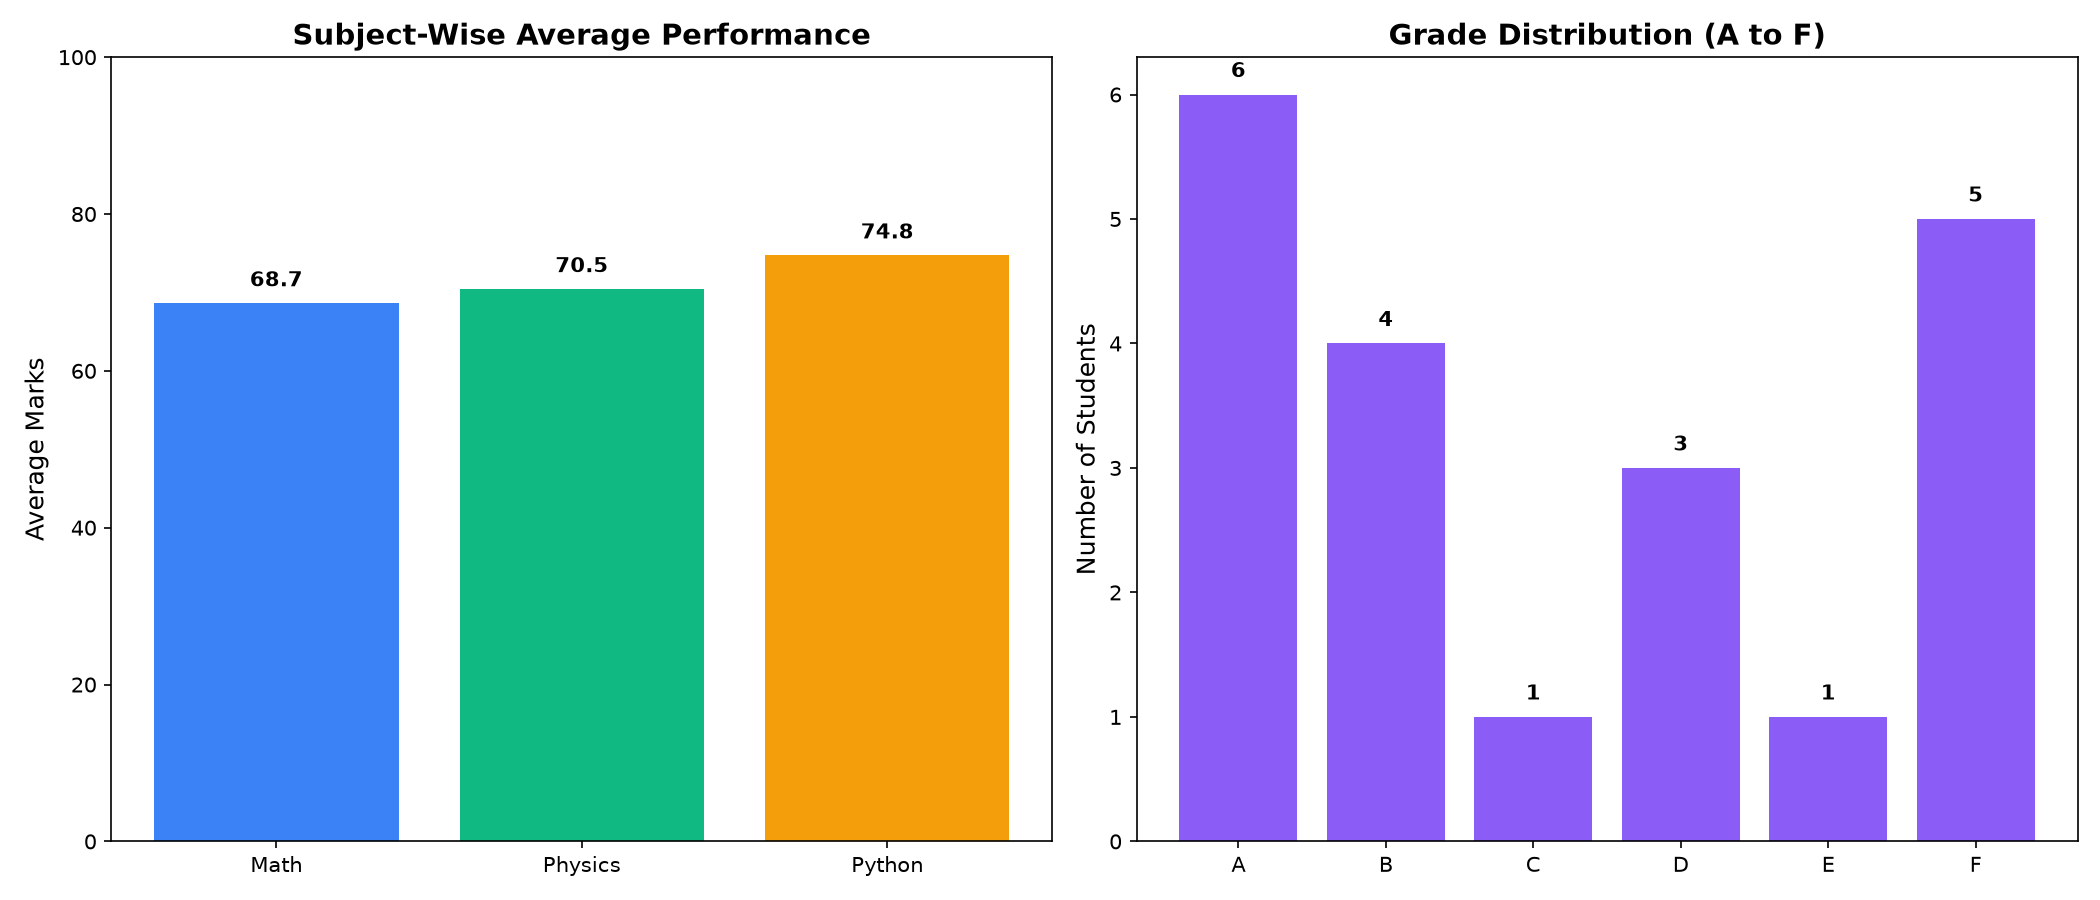
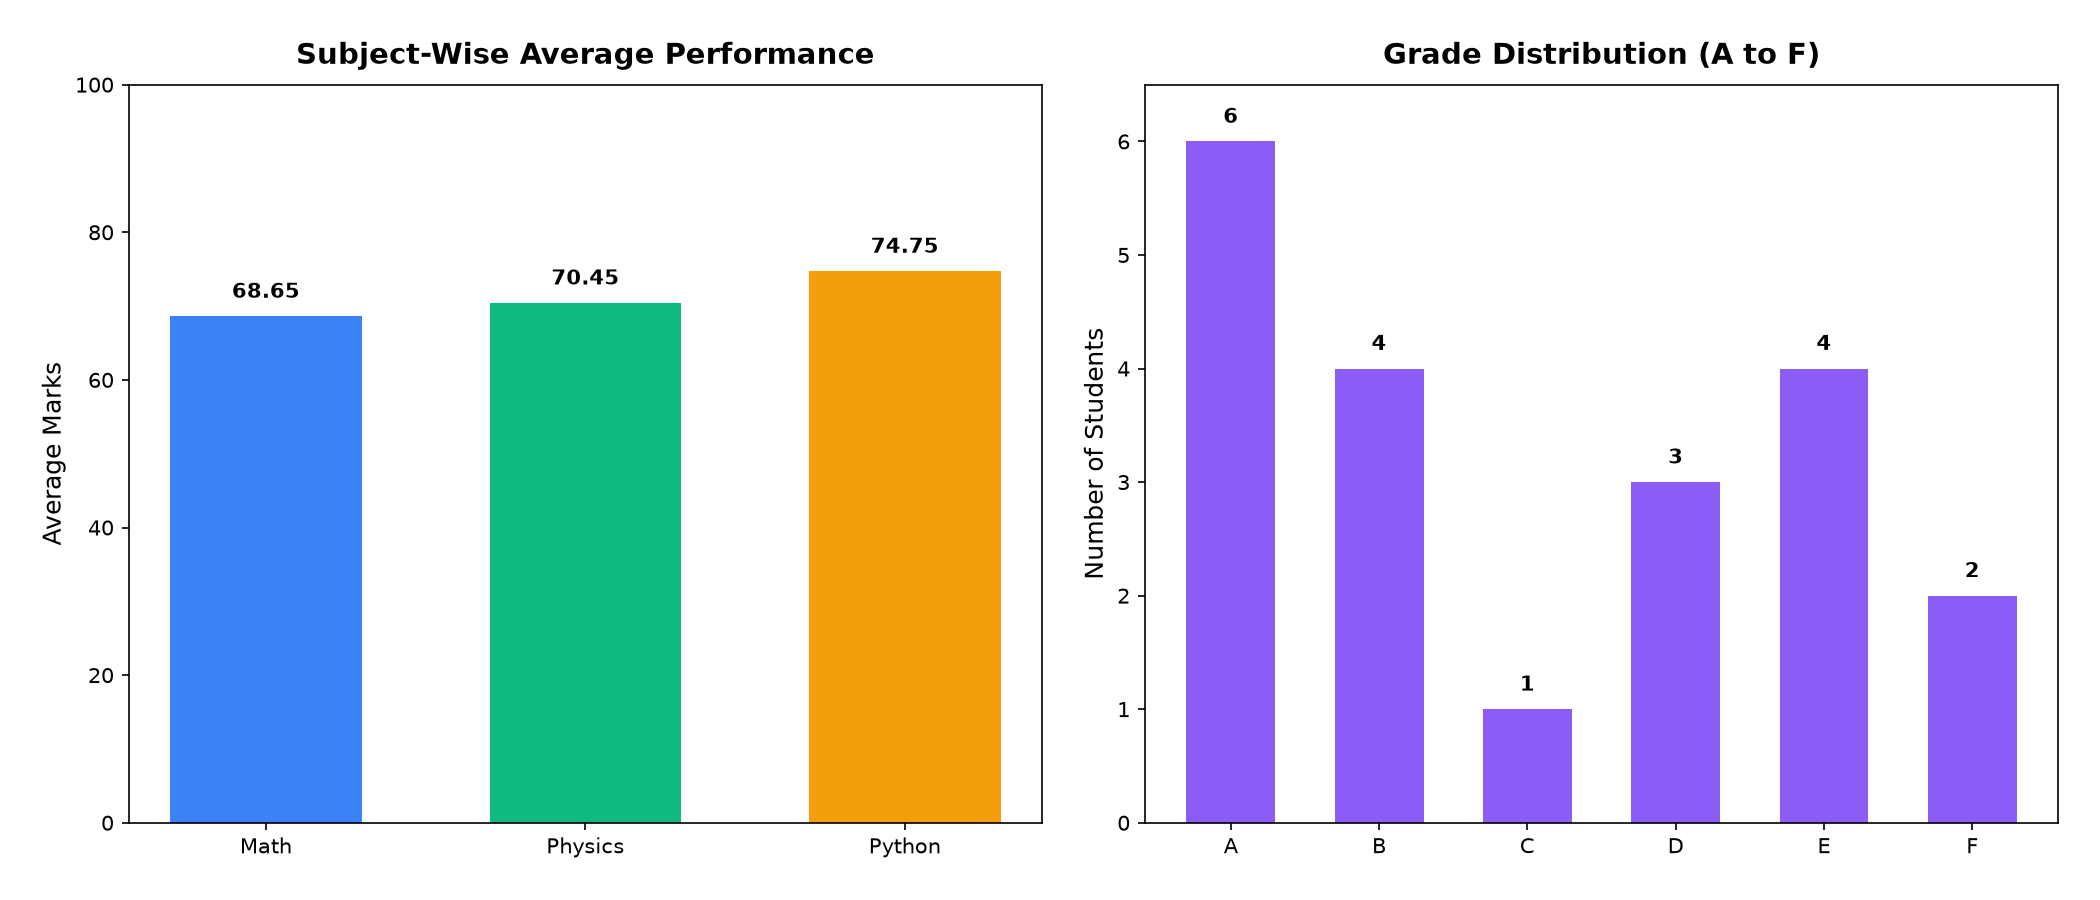
docs: align README, documentation, and screenshots with grading policy

diff --git a/functions.py b/functions.py
@@ -208,3 +208,69 @@ def get_pass_fail_summary(df: pd.DataFrame) -> Dict[str, int]:
         "Failed": failed_count,
         "Pass_Percentage": pass_percentage
     }
+
+
+def generate_analytics_chart(
+    df: pd.DataFrame,
+    output_path: str = "screenshots/analytics_summary_chart.png"
+) -> str:
+    """
+    Generate and save a two-panel analytical summary chart (Subject-Wise Average
+    Performance and Grade Distribution A-F) from the processed student DataFrame.
+    """
+    import matplotlib
+    matplotlib.use("Agg")
+    import matplotlib.pyplot as plt
+
+    os.makedirs(os.path.dirname(os.path.abspath(output_path)), exist_ok=True)
+
+    subject_df, _ = analyze_subject_performance(df)
+    grade_order = ["A", "B", "C", "D", "E", "F"]
+    grade_counts = [int((df["Grade"] == g).sum()) for g in grade_order]
+
+    fig, (ax1, ax2) = plt.subplots(1, 2, figsize=(14, 6), dpi=150)
+
+    # Panel 1: Subject-Wise Average Performance
+    subj_colors = ["#3b82f6", "#10b981", "#f59e0b"]
+    bars1 = ax1.bar(
+        subject_df["Subject"],
+        subject_df["Average_Marks"],
+        color=subj_colors[:len(subject_df)],
+        width=0.6
+    )
+    ax1.set_title("Subject-Wise Average Performance", fontsize=14, fontweight="bold", pad=10)
+    ax1.set_ylabel("Average Marks", fontsize=12)
+    ax1.set_ylim(0, 100)
+    for bar, val in zip(bars1, subject_df["Average_Marks"]):
+        ax1.text(
+            bar.get_x() + bar.get_width() / 2.0,
+            bar.get_height() + 1.8,
+            f"{val:.2f}",
+            ha="center",
+            va="bottom",
+            fontsize=10,
+            fontweight="bold"
+        )
+
+    # Panel 2: Grade Distribution (A to F)
+    bars2 = ax2.bar(grade_order, grade_counts, color="#8b5cf6", width=0.6)
+    ax2.set_title("Grade Distribution (A to F)", fontsize=14, fontweight="bold", pad=10)
+    ax2.set_ylabel("Number of Students", fontsize=12)
+    max_count = max(grade_counts) if grade_counts else 1
+    ax2.set_ylim(0, max_count + 0.5)
+    ax2.set_yticks(range(0, max_count + 1))
+    for bar, count in zip(bars2, grade_counts):
+        ax2.text(
+            bar.get_x() + bar.get_width() / 2.0,
+            bar.get_height() + 0.12,
+            f"{count}",
+            ha="center",
+            va="bottom",
+            fontsize=10,
+            fontweight="bold"
+        )
+
+    plt.tight_layout(pad=2.0)
+    fig.savefig(output_path, dpi=150)
+    plt.close(fig)
+    return output_path

diff --git a/test_analytics.py b/test_analytics.py
@@ -11,6 +11,8 @@ Verifies:
 7. Top/Lowest performer selection with tie handling.
 """
 
+import os
+import tempfile
 import unittest
 import numpy as np
 import pandas as pd
@@ -24,7 +26,8 @@ from functions import (
     get_top_performers,
     get_lowest_performers,
     analyze_subject_performance,
-    get_pass_fail_summary
+    get_pass_fail_summary,
+    generate_analytics_chart
 )
 
 
@@ -229,6 +232,16 @@ class TestStudentPerformanceAnalytics(unittest.TestCase):
         self.assertEqual(summary["Passed"] + summary["Failed"], 8)
         self.assertEqual(summary["Failed"], 2) # T6 and T7
         self.assertEqual(summary["Passed"], 6)
+
+    def test_generate_analytics_chart(self):
+        metrics_df = calculate_student_metrics(self.sample_data)
+        scored_df = apply_grading_and_status(metrics_df)
+        with tempfile.TemporaryDirectory() as tmp_dir:
+            chart_path = os.path.join(tmp_dir, "test_chart.png")
+            saved_path = generate_analytics_chart(scored_df, chart_path)
+            self.assertEqual(saved_path, chart_path)
+            self.assertTrue(os.path.exists(chart_path))
+            self.assertGreater(os.path.getsize(chart_path), 1000)
 
 
 if __name__ == "__main__":

diff --git a/Project_Documentation.md b/Project_Documentation.md
@@ -82,64 +82,67 @@ The implementation follows a modular architecture separating reusable logic ([`f
 - Calculates row-wise means: `np.round(np.mean(marks_matrix, axis=1), 2)` to generate `Average_Marks`.
 
 ### C. Rule-Based Grading & Pass/Fail Evaluation
-- Implemented in `assign_grade()` and `evaluate_pass_fail()`.
-- Grades are evaluated through conditional statements:
-  - `A`: Average $\ge 90.0$ ($90 - 100\%$)
-  - `B`: $80.0 \le \text{Average} < 90.0$
-  - `C`: $70.0 \le \text{Average} < 80.0$
-  - `D`: $60.0 \le \text{Average} < 70.0$
-  - `E`: $40.0 \le \text{Average} < 60.0$
-  - `F`: $\text{Average} < 40.0$ (Failing performance)
+- Implemented in `assign_grade()`, `evaluate_pass_fail()`, and `apply_grading_and_status()`.
+- Grades are evaluated under this project's defined grading policy using conditional statements on `Average_Marks`:
+  - `A`: $90.0 \le \text{Average} \le 100.0\%$
+  - `B`: $80.0 \le \text{Average} < 90.0\%$
+  - `C`: $70.0 \le \text{Average} < 80.0\%$
+  - `D`: $60.0 \le \text{Average} < 70.0\%$
+  - `E`: $40.0 \le \text{Average} < 60.0\%$
+  - `F`: $\text{Average} < 40.0\%$ (Failing average)
 - Pass/Fail rule:
   - A student **passes** if and only if: $\text{Average} \ge 40.0$ **AND** $\min(\text{Subject Marks}) \ge 35.0$.
   - Otherwise, the student fails. Evaluated using explicit `for` loop iterations across subject scores.
 - Policy Alignment:
-  - Grade F is strictly aligned with failing performance ($\text{Average} < 40.0\%$). As a result, any student with Grade F automatically receives Status Fail, eliminating contradictions where a student receives Grade F but passes.
-  - Students with an average between $40.0\%$ and $59.99\%$ receive Grade E. If all their individual subject marks are $\ge 35$, they receive Status Pass (e.g., S103 at 45.00% and S110 at 49.00%).
-  - If a student achieves an overall average $\ge 40\%$ but scores $< 35$ in any subject (e.g., student S108 scoring 34 in Math with a 40.67% average), they receive Grade E and Status Fail.
+  - Grade F is strictly aligned with failing average performance ($\text{Average} < 40.0\%$). Consequently, any student assigned Grade F automatically receives Status **Fail** (e.g., S113 at 34.00% and S119 at 39.33%), eliminating contradictions where a student receives Grade F but passes.
+  - Students with an average between $40.0\%$ and $59.99\%$ receive **Grade E**. If all their individual subject marks are $\ge 35$, they receive Status **Pass** (e.g., S103 at 45.00%, S110 at 49.00%, and S115 at 58.33%).
+  - If a student achieves an overall average $\ge 40.0\%$ but scores $< 35$ in any subject (e.g., student S108 scoring 34 in Math with a 40.67% average), they receive **Grade E** and Status **Fail**.
 
-### D. Cohort & Subject Analytics
-- Implemented in `calculate_class_statistics()` and `analyze_subject_performance()`.
+### D. Cohort, Subject & Visual Analytics
+- Implemented in `calculate_class_statistics()`, `analyze_subject_performance()`, `get_top_performers()`, `get_lowest_performers()`, `get_pass_fail_summary()`, and `generate_analytics_chart()`.
 - Computes cohort metrics using NumPy: `np.mean()`, `np.median()`, `np.std()`, `np.max()`, and `np.min()`.
-- Aggregates subject averages to determine the highest performing academic domain.
-- Identifies Top Performers (`get_top_performers`) while preserving ties by matching threshold marks.
+- Aggregates subject averages (`Math: 68.65`, `Physics: 70.45`, `Python: 74.75`) to determine the highest-performing academic domain (`Python`).
+- Identifies Top Performers (`get_top_performers`) and Lowest Performers (`get_lowest_performers`) while preserving ties by matching threshold marks.
+- Renders a two-panel Matplotlib analytical summary chart (`generate_analytics_chart`) depicting Subject-Wise Average Performance and Grade Distribution (`A` through `F`).
 
 ---
 
 ## 6. Key Features
 
-1. **Clean Separation of Concerns**: Logic is organized cleanly between reusable backend functions and presentation code.
-2. **True Numerical Optimization**: Uses native NumPy array buffers rather than slow Python standard loops for bulk calculations.
-3. **Comprehensive Edge-Case Handling**: Handled scenarios include ties in top ranks, subject-specific failure criteria, aligned grading boundaries, and missing input files.
-4. **Automated Unit Testing**: Includes 11 automated unit tests checking all grade boundaries, pass/fail edge cases, missing files, and numerical accuracy.
-5. **Human-Readable Output Formatting**: Console reports use aligned headers, tabular format, and visual dividers.
+1. **Clean Separation of Concerns**: Logic is organized cleanly between reusable backend functions ([`functions.py`](functions.py)) and presentation driver code ([`main.py`](main.py)).
+2. **Vectorized Numerical Computations**: Uses NumPy array operations (`np.sum`, `np.mean`, `np.median`, `np.std`) for accurate student and cohort calculations.
+3. **Comprehensive Edge-Case Handling**: Handled scenarios include ties in top and lowest ranks, subject-specific failure criteria, aligned grading boundaries, and missing input files.
+4. **Automated Unit Testing**: Includes **12 automated unit tests** in [`test_analytics.py`](test_analytics.py) checking all grade boundaries (`40`, `50`, `60`, `70`, `80`, `90`), pass/fail edge cases, real dataset verification, missing files, numerical accuracy, and chart generation.
+5. **Single Consolidated Terminal Report**: Console output is presented in one unified `Complete Student Performance Summary` section combining the full 20-student table and compact cohort statistics.
 
 ---
 
 ## 7. Output & Visual Results
 
 ### Terminal Output
-The script outputs a clean, unified presentation titled **Complete Student Performance Summary** containing:
-1. Complete student tabular records (Student ID, Name, Department, Subject Marks, Total, Average, Grade, Status, Attendance)
-2. Integrated cohort performance summary (Total records, Pass/Fail counts and percentages, Class Average, Median, Std Dev, Highest/Lowest marks, Subject averages, Best subject, and Top/Lowest performers)
+Executing `python main.py` outputs a single consolidated terminal section titled **Complete Student Performance Summary** containing:
+1. Complete student tabular records (`Student_ID`, `Name`, `Department`, `Math_Marks`, `Physics_Marks`, `Python_Marks`, `Total_Marks`, `Average_Marks`, `Grade`, `Status`, `Attendance`).
+2. Integrated cohort performance summary (`20 Students | Passed: 17 (85.0%) | Failed: 3`, `Class Average: 71.28% (Median: 76.00%, Std Dev: 20.51)`, `Highest Score: 97.33% (Total: 292) | Lowest Score: 34.00% (Total: 102)`, `Subject Averages: Math: 68.65, Physics: 70.45, Python: 74.75 (Best Subject: Python)`, `Top Performer(s)`, and `Lowest Performer`).
 
-A high-resolution screenshot of the console execution is stored at:
+A verified screenshot of the terminal output is stored at:
 [`screenshots/terminal_output.png`](screenshots/terminal_output.png)
 
 ### Analytics Visualizations
-A multi-panel performance chart illustrating Subject-Wise Average Performance and Grade Distribution is stored at:
+A two-panel Matplotlib summary chart generated by `generate_analytics_chart()` is stored at:
 [`screenshots/analytics_summary_chart.png`](screenshots/analytics_summary_chart.png)
+- **Left Panel (`Subject-Wise Average Performance`)**: Bar chart displaying exact subject averages — Math (`68.65`), Physics (`70.45`), and Python (`74.75`).
+- **Right Panel (`Grade Distribution (A to F)`)**: Bar chart displaying cohort grade counts under the aligned policy — `A: 6`, `B: 4`, `C: 1`, `D: 3`, `E: 4`, and `F: 2`.
 
 ---
 
 ## 8. Final Outcome
 
 The completed application successfully:
-- Processes multi-subject student cohorts instantly.
-- Accurately classifies performance across 6 aligned grade categories (`A` through `F`).
-- Correctly identifies that out of 20 students, **17 passed (85.0%)** and **3 failed (15.0%)**.
-- Discovers that **Python** had the highest class average (74.75 marks).
-- Highlights top achievers: S104 Ananya Iyer (97.33% average, Grade A), S114 Priya Pillai (95.67% average, Grade A), and S118 Tanvi Bhat (92.67% average, Grade A).
+- Processes multi-subject student cohorts from [`students.csv`](students.csv) (20 student records).
+- Classifies student performance across 6 aligned grade categories (`A: 6`, `B: 4`, `C: 1`, `D: 3`, `E: 4`, `F: 2`).
+- Identifies that out of 20 students, **17 passed (85.0%)** and **3 failed (15.0%)** (S108 with Grade E due to Math = 34 < 35; S113 and S119 with Grade F due to Average < 40%).
+- Determines that **Python** achieved the highest subject average (`74.75`, compared to Physics `70.45` and Math `68.65`).
+- Highlights top achievers: S104 Ananya Iyer (`97.33%` average, Total `292`, Grade `A`), S114 Priya Pillai (`95.67%` average, Grade `A`), and S118 Tanvi Bhat (`92.67%` average, Grade `A`), as well as lowest performer S113 Ishaan Deshmukh (`34.0%` average, Total `102`, Grade `F`).
 
 ---
 

diff --git a/README.md b/README.md
@@ -98,32 +98,31 @@ student-performance-analytics/
 
 ## 7. Grading & Pass/Fail Rules
 
-### Grading Scheme
-Grades are derived directly from a student's unrounded average marks across all subjects:
+### Project Grading Scheme
+Grades are derived directly from a student's average marks across all subjects using **this project's defined grading policy** (designed to align with the project's pass threshold rather than representing a universal academic standard):
 
 - **Grade A**: $90.0 \le \text{Average} \le 100.0\%$
 - **Grade B**: $80.0 \le \text{Average} < 90.0\%$
 - **Grade C**: $70.0 \le \text{Average} < 80.0\%$
 - **Grade D**: $60.0 \le \text{Average} < 70.0\%$
 - **Grade E**: $40.0 \le \text{Average} < 60.0\%$
-- **Grade F**: $\text{Average} < 40.0\%$ (Failing performance)
+- **Grade F**: $\text{Average} < 40.0\%$ (Failing average)
 
 ### Pass/Fail Evaluation Criteria
-To maintain academic rigor, passing requires meeting two conditions simultaneously:
+Passing requires satisfying two conditions simultaneously:
 1. **Overall Average**: The student's overall average must be at least **40.0%**.
 2. **Subject Minimum**: The student must score at least **35.0 marks** in every individual subject.
 
-
-*If a student has an overall average 40% but scores < 35 in any single subject, their status is evaluated as **Fail**.*
-
-Otherwise, the student fails.
+A student fails if either condition is violated.
 
 ### Policy Alignment
-The grading scale is strictly aligned with the institutional pass/fail criteria:
-- **Grade F** specifically designates failing performance ($\text{Average} < 40.0\%$). Therefore, a student receiving Grade F will always receive Status **Fail**, eliminating contradictory cases where a student receives Grade F but passes.
-- Students achieving an average between **40.0% and 59.99%** receive **Grade E**. If all their individual subject marks are at least 35, they receive Status **Pass** (e.g., S103 at 45.00% and S110 at 49.00%).
-- If a student achieves an overall average $\ge 40\%$ but scores $< 35$ in any single subject (e.g., student S108 scoring 34 in Math with a 40.67% average), they receive Grade E but their status is evaluated as **Fail**.
-----
+The project's grading scale is aligned with its pass/fail evaluation criteria:
+- **Grade F Always Maps to Fail**: Because **Grade F** applies strictly when $\text{Average} < 40.0\%$ and passing requires $\text{Average} \ge 40.0\%$, every student assigned Grade F always receives Status **Fail** (e.g., S113 at 34.00% and S119 at 39.33%). No student with Grade F can ever receive Status Pass.
+- **Grade E Can Receive Pass or Fail Depending on Subject Marks**: Students with an overall average in the $40.0\%$ to $59.99\%$ range receive **Grade E**:
+  - If every individual subject mark is $\ge 35$, the student receives Status **Pass** (e.g., S103 with 45.00%, S110 with 49.00%, and S115 with 58.33%).
+  - If any individual subject mark is $< 35$, the student still receives **Grade E** based on their overall average ($\ge 40.0\%$), but their Status is evaluated as **Fail** due to the subject minimum rule (e.g., S108 with a 40.67% average but 34 marks in Math).
+
+---
 
 ## 8. Setup & Installation
 
@@ -143,6 +142,8 @@ The grading scale is strictly aligned with the institutional pass/fail criteria:
    python -m venv venv
    # On Windows (PowerShell):
    .\venv\Scripts\Activate.ps1
+   # On Windows (Command Prompt):
+   venv\Scripts\activate.bat
    # On Linux/macOS:
    source venv/bin/activate
    ```
@@ -164,9 +165,9 @@ python main.py
 
 ---
 
-## 10. Sample Output
+## 10. Verified Sample Output
 
-```
+```text
 ================================================================================
                       Complete Student Performance Summary                      
 ================================================================================
@@ -209,35 +210,40 @@ Lowest Performer: Ishaan Deshmukh (34.0%)
 Run the automated test suite with:
 
 ```bash
-python -m unittest test_analytics.py
+python -m unittest -v test_analytics.py
 ```
 
 **Verification Results:**
-- 9 test cases executed.
-- 100% pass rate covering data loading, NumPy math, boundary grading, tie-handling, and pass/fail logic.
+- **12 unit tests executed (`OK`, 100% pass rate)** covering:
+  - Dataset loading and missing-file error handling (`test_load_dataset`, `test_load_dataset_missing_file`).
+  - Vectorized student total and average calculations (`test_student_metrics_calculations`).
+  - Exact grade boundaries across `A`, `B`, `C`, `D`, `E`, and `F` (`test_grade_boundaries`).
+  - Pass/fail rules, subject-level failure, and synthetic policy scenarios (`test_pass_fail_rules`, `test_aligned_policy_student_scenarios`).
+  - Real `students.csv` grade and status verification for S103, S108, S110, and the Grade F invariant (`test_actual_dataset_grade_and_status_alignment`).
+  - Class statistics, subject-wise analytics, tie-aware top performer selection, pass/fail summary counts, and chart generation (`test_class_statistics`, `test_subject_analysis`, `test_top_performers_and_ties`, `test_pass_fail_summary_counts`, `test_generate_analytics_chart`).
 
 ---
 
-## 12. Screenshots
+## 12. Screenshots & Visual Results
 
-Visual execution captures are maintained inside the [`screenshots/`](screenshots/) directory:
+Verified execution visuals generated from the actual dataset and application are stored in [`screenshots/`](screenshots/):
 
-- **Terminal Output Screenshot**: `screenshots/terminal_output.png`
-- **Analytics Performance Chart**: `screenshots/analytics_summary_chart.png`
+- **Terminal Output Screenshot** ([`screenshots/terminal_output.png`](screenshots/terminal_output.png)): Displays the complete `Complete Student Performance Summary` table (20 students with aligned `Grade` and `Status` columns) and the cohort overview block produced by `python main.py`.
+- **Analytics Summary Chart** ([`screenshots/analytics_summary_chart.png`](screenshots/analytics_summary_chart.png)): Two-panel Matplotlib visualization produced by `generate_analytics_chart()` showing:
+  - *Subject-Wise Average Performance*: Math (`68.65`), Physics (`70.45`), and Python (`74.75`).
+  - *Grade Distribution (A to F)*: `A: 6`, `B: 4`, `C: 1`, `D: 3`, `E: 4`, `F: 2`.
 
 ---
 
 ## 13. Limitations & Assumptions
 
-1. **Fixed Evaluation Scale**: Subject marks are assumed to be out of a maximum of 100.
-2. **Even Weighting**: All subjects carry equal weight when computing total marks and average marks.
-3. **Synthetic Demonstration Data**: The dataset represents realistic synthetic academic records curated for educational demonstration.
+1. **Project-Specific Grading Policy**: The letter-grade thresholds (`E` for `40.0%` to `< 60.0%`, `F` for `< 40.0%`) and pass criteria ($\text{Average} \ge 40.0\%$ and each subject $\ge 35$) represent this project's defined evaluation rules rather than a universal institutional standard.
+2. **Fixed Evaluation Scale**: Subject marks are assumed to be out of a maximum of 100.
+3. **Equal Subject Weighting**: All subjects carry equal weight when computing total marks and average marks.
+4. **Synthetic Demonstration Data**: The dataset (`students.csv`) contains synthetic academic records curated for educational demonstration.
 
 ---
 
 ## 14. GitHub Repository
 
-
-- **Repository URL**: `https://github.com/MahendraMula/student-performance-analytics` 
-
-- **Repository URL**: `https://github.com/MahendraMula/student-performance-analytics`
+- **Repository URL**: [https://github.com/MahendraMula/student-performance-analytics](https://github.com/MahendraMula/student-performance-analytics)
